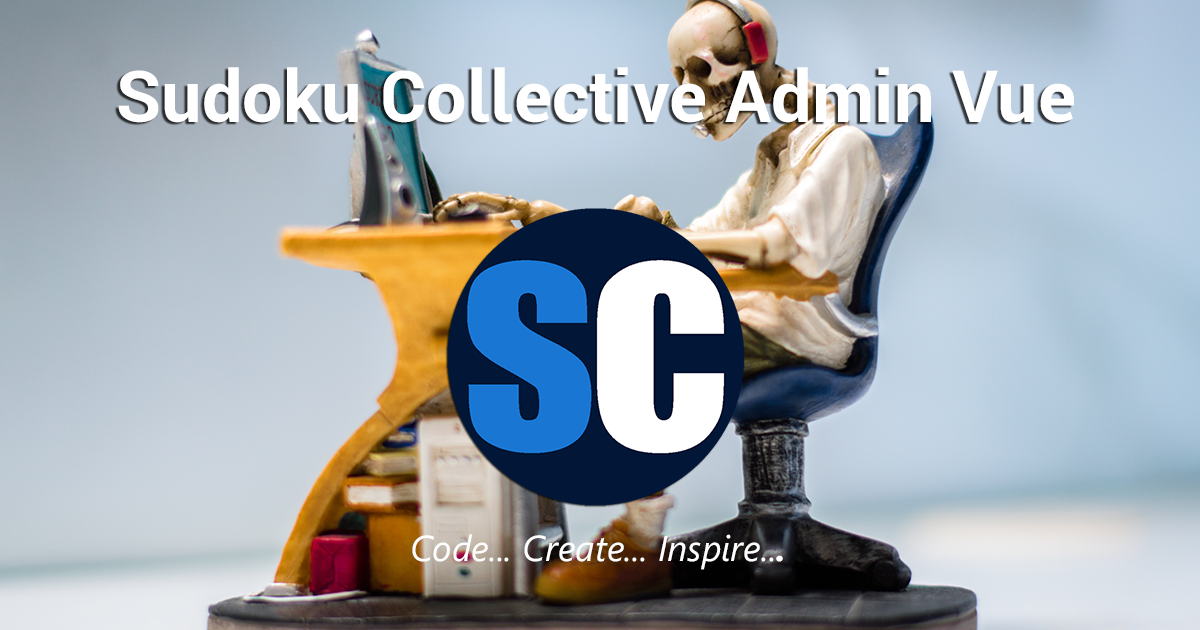
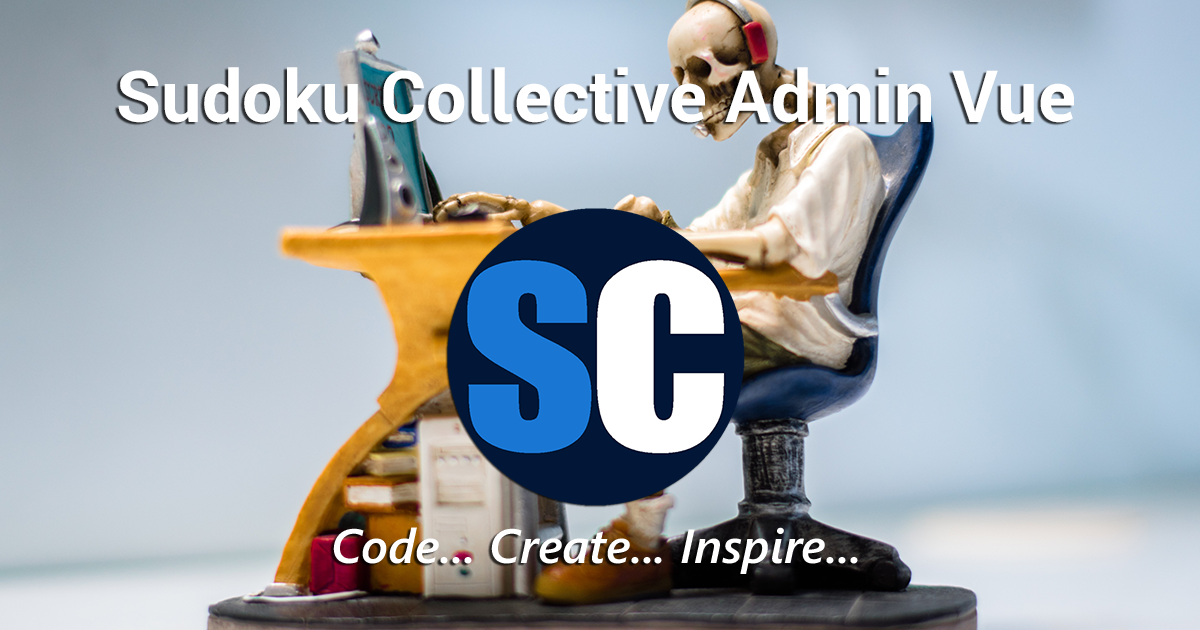
Update tagline font and preview image

Changed region(s): [[0.2775, 0.8444, 0.7092, 0.9048]]

diff --git a/app/src/components/pages/HomePage.vue b/app/src/components/pages/HomePage.vue
@@ -41,84 +41,82 @@
   </v-container>
 </template>
 
-<script lang='ts'>
-  import { defineComponent, ref, watch } from 'vue';
-  import store from '@/store';
+<script lang="ts">
+import { defineComponent, ref, watch } from 'vue';
+import store from '@/store';
 
-  export default defineComponent({
-    name: 'HomePage',
-    setup() {
-      const missionStatement = ref(
-        store.getters['valuesModule/getMissionStatement']
-      );
-      watch(
-        () => store.getters['valuesModule/getMissionStatement'],
-        function () {
-          missionStatement.value =
-            store.getters['valuesModule/getMissionStatement'];
-        }
-      );
-      return {
-        missionStatement,
-      };
-    },
-  });
+export default defineComponent({
+  name: 'HomePage',
+  setup() {
+    const missionStatement = ref(
+      store.getters['valuesModule/getMissionStatement']
+    );
+    watch(
+      () => store.getters['valuesModule/getMissionStatement'],
+      function () {
+        missionStatement.value =
+          store.getters['valuesModule/getMissionStatement'];
+      }
+    );
+    return {
+      missionStatement,
+    };
+  },
+});
 </script>
 
-<style lang='scss' scoped>
-  .v-card {
-    @media (max-width: 600px) {
-      padding: 0 0 0 0 !important;
-      margin: 0 0 0 0 !important;
-    }
+<style lang="scss" scoped>
+.v-card {
+  @media (max-width: 600px) {
+    padding: 0 0 0 0 !important;
+    margin: 0 0 0 0 !important;
   }
-  .text-padding {
-    @media (max-width: 600px) {
-      padding: 10px 20px 0 20px;
-    }
-    @media (min-width: 601px) {
-      padding: 35px 70px 0 70px;
-    }
+}
+.text-padding {
+  @media (max-width: 600px) {
+    padding: 10px 20px 0 20px;
   }
-  .home-banner {
-    position: relative;
-    margin-bottom: 0;
-    border: 0;
-    border-color: transparent;
-    min-height: 500px;
-    background-image: url('@/assets/banner.jpg');
-    background-size: cover;
-    background-repeat: no-repeat;
-    background-position: center center;
+  @media (min-width: 601px) {
+    padding: 35px 70px 0 70px;
   }
-  .centered-welcome-message {
-    position: absolute;
-    top: 10%;
-    left: 0;
-    width: 100%;
-    color: white;
-    text-shadow: 2px 2px var(--v-secondary);
-  }
-  .centered-logo {
-    position: absolute;
-    left: 0;
-    width: 100%;
-    filter: drop-shadow(2px 2px 2px var(--v-secondary));
-    top: 40%;
-  }
-  .motto {
-    margin: auto;
-    font-style: italic;
-    color: var(--v-secondary);
-    font-size: 2.5em;
-    font-weight: 500;
-    font-family: -apple-system, BlinkMacSystemFont, 'Segoe UI', Roboto,
-      'Helvetica Neue', Arial, 'Noto Sans', sans-serif, 'Apple Color Emoji',
-      'Segoe UI Emoji', 'Segoe UI Symbol', 'Noto Color Emoji';
-  }
-  .description {
-    color: var(--v-secondary);
-    font-size: 1em;
-    padding-bottom: 50px;
-  }
+}
+.home-banner {
+  position: relative;
+  margin-bottom: 0;
+  border: 0;
+  border-color: transparent;
+  min-height: 500px;
+  background-image: url('@/assets/banner.jpg');
+  background-size: cover;
+  background-repeat: no-repeat;
+  background-position: center center;
+}
+.centered-welcome-message {
+  position: absolute;
+  top: 10%;
+  left: 0;
+  width: 100%;
+  color: white;
+  text-shadow: 2px 2px var(--v-secondary);
+}
+.centered-logo {
+  position: absolute;
+  left: 0;
+  width: 100%;
+  filter: drop-shadow(2px 2px 2px var(--v-secondary));
+  top: 40%;
+}
+.motto {
+  margin: auto;
+  font-style: italic;
+  color: var(--v-secondary);
+  font-size: 2.5em;
+  font-weight: 500;
+  font-family: 'Segoe UI';
+}
+.description {
+  color: var(--v-secondary);
+  font-size: 1em;
+  padding-bottom: 50px;
+}
 </style>
